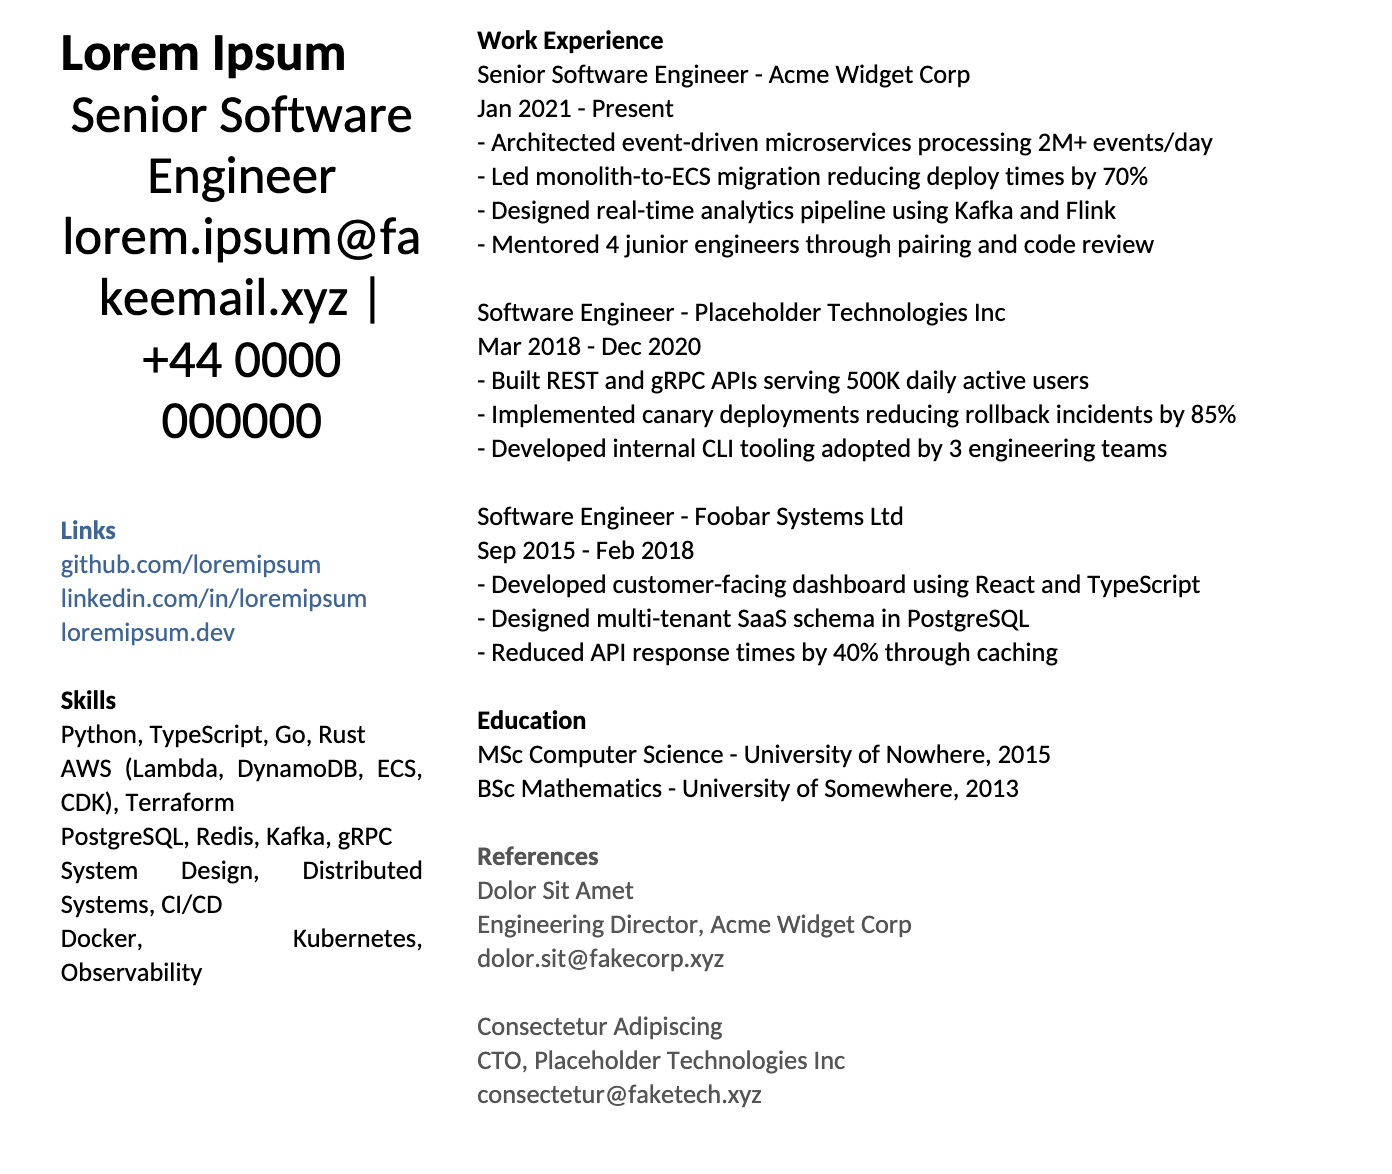
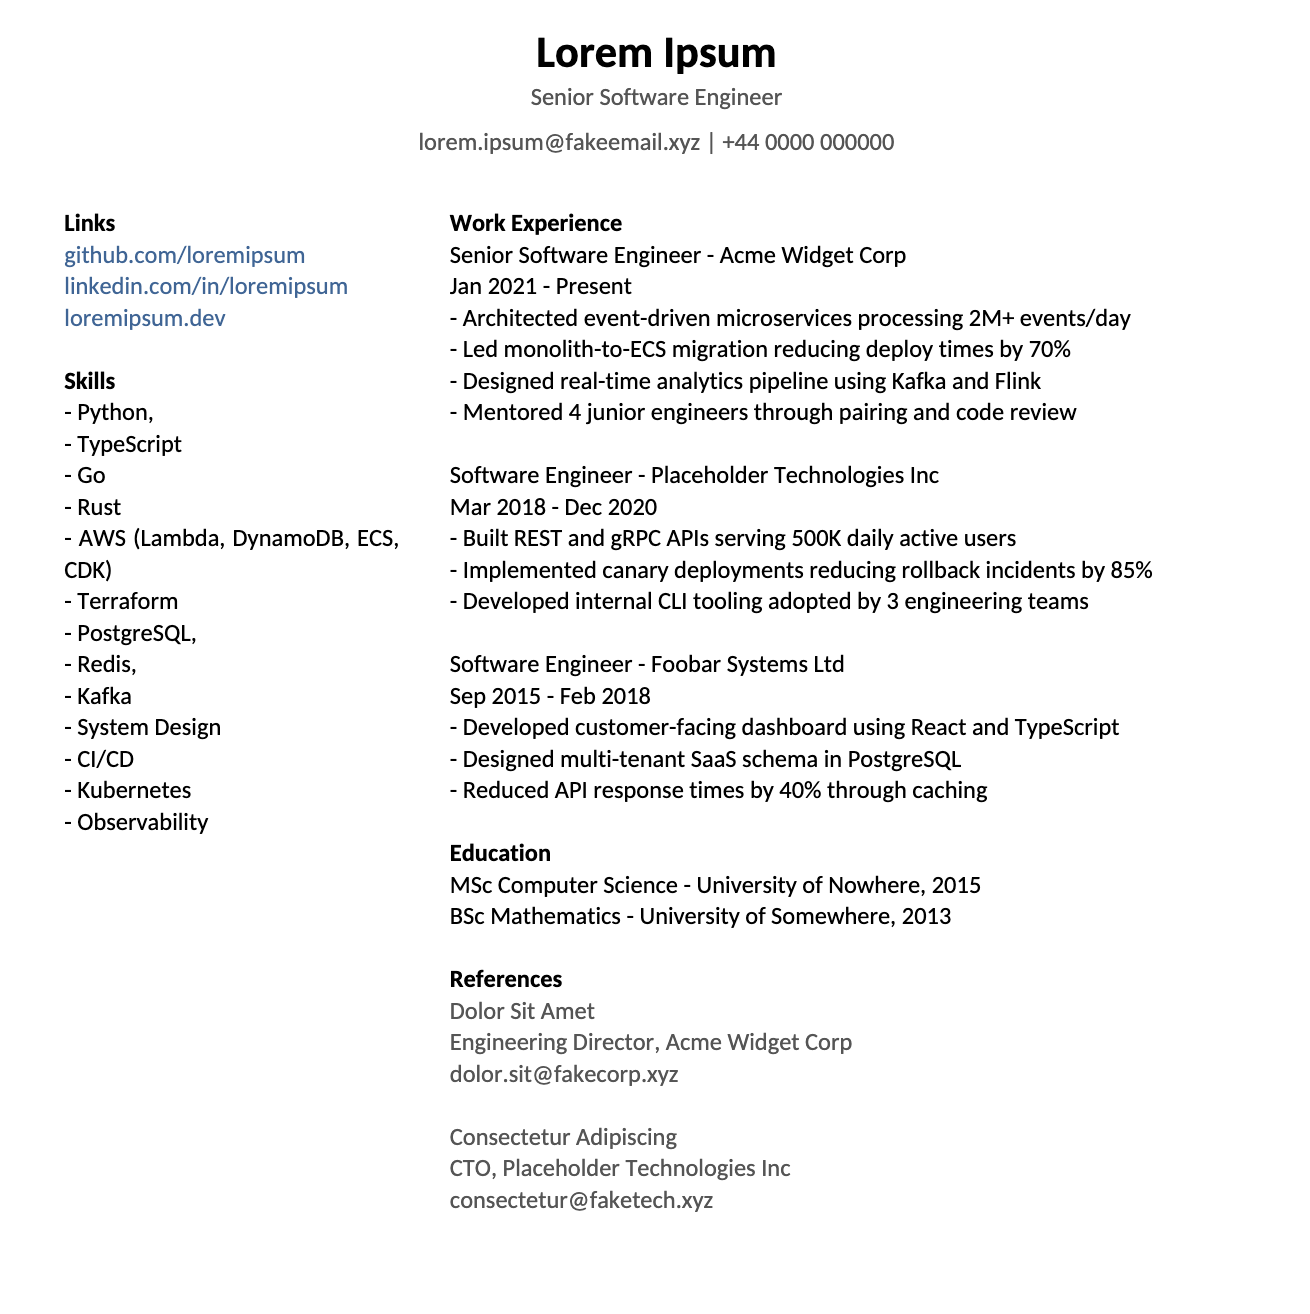
docs: Sync README and index.html examples with current resume.txt and valid.rcss

Changed region(s): [[0.0305, 0.0307, 0.8855, 0.8586], [0.3359, 0.8586, 0.6107, 0.9506], [0.2137, 0.7973, 0.3053, 0.8279]]

diff --git a/docs/index.html b/docs/index.html
@@ -246,11 +246,19 @@ linkedin.com/in/loremipsum
 loremipsum.dev
 
 Skills
-Python, TypeScript, Go, Rust
-AWS (Lambda, DynamoDB, ECS, CDK), Terraform
-PostgreSQL, Redis, Kafka, gRPC
-System Design, Distributed Systems, CI/CD
-Docker, Kubernetes, Observability
+- Python, 
+- TypeScript
+- Go
+- Rust
+- AWS (Lambda, DynamoDB, ECS, CDK)
+- Terraform
+- PostgreSQL, 
+- Redis, 
+- Kafka
+- System Design
+- CI/CD
+- Kubernetes
+- Observability
 
 Work Experience
 Senior Software Engineer - Acme Widget Corp
@@ -290,12 +298,7 @@ consectetur@faketech.xyz</code></pre>
 
 layout { mode: grid; columns: 2; column-widths: 30% 70%; column-gap: 6mm; margins: 20mm 18mm 20mm 18mm; font-family: "Carlito"; }
 
-section[name="Lorem Ipsum"] {
-  font-size: 22pt;
-  align: center;
-  line-height: 9;
-  grid-column: 1;
-}
+heading { font-size: 20pt; align: center; line-height: 7; color: #555555; }
 
 section[name="Links"] {
   color: #336699;

diff --git a/README.md b/README.md
@@ -202,11 +202,19 @@ linkedin.com/in/loremipsum
 loremipsum.dev
 
 Skills
-Python, TypeScript, Go, Rust
-AWS (Lambda, DynamoDB, ECS, CDK), Terraform
-PostgreSQL, Redis, Kafka, gRPC
-System Design, Distributed Systems, CI/CD
-Docker, Kubernetes, Observability
+- Python, 
+- TypeScript
+- Go
+- Rust
+- AWS (Lambda, DynamoDB, ECS, CDK)
+- Terraform
+- PostgreSQL, 
+- Redis, 
+- Kafka
+- System Design
+- CI/CD
+- Kubernetes
+- Observability
 
 Work Experience
 Senior Software Engineer - Acme Widget Corp
@@ -247,14 +255,9 @@ consectetur@faketech.xyz
 ```css
 @font-face { font-family: "Carlito"; src: "examples/fonts/Carlito-Regular.ttf"; src-bold: "examples/fonts/Carlito-Bold.ttf"; }
 
-layout { mode: grid; columns: 2; column-widths: 35% 65%; column-gap: 6mm; margins: 20mm 18mm 20mm 18mm; font-family: "Carlito"; }
+layout { mode: grid; columns: 2; column-widths: 30% 70%; column-gap: 6mm; margins: 20mm 18mm 20mm 18mm; font-family: "Carlito"; }
 
-section[name="Lorem Ipsum"] {
-  font-size: 22pt;
-  align: center;
-  line-height: 9;
-  grid-column: 1;
-}
+heading { font-size: 20pt; align: center; line-height: 7; color: #555555; }
 
 section[name="Links"] {
   color: #336699;
